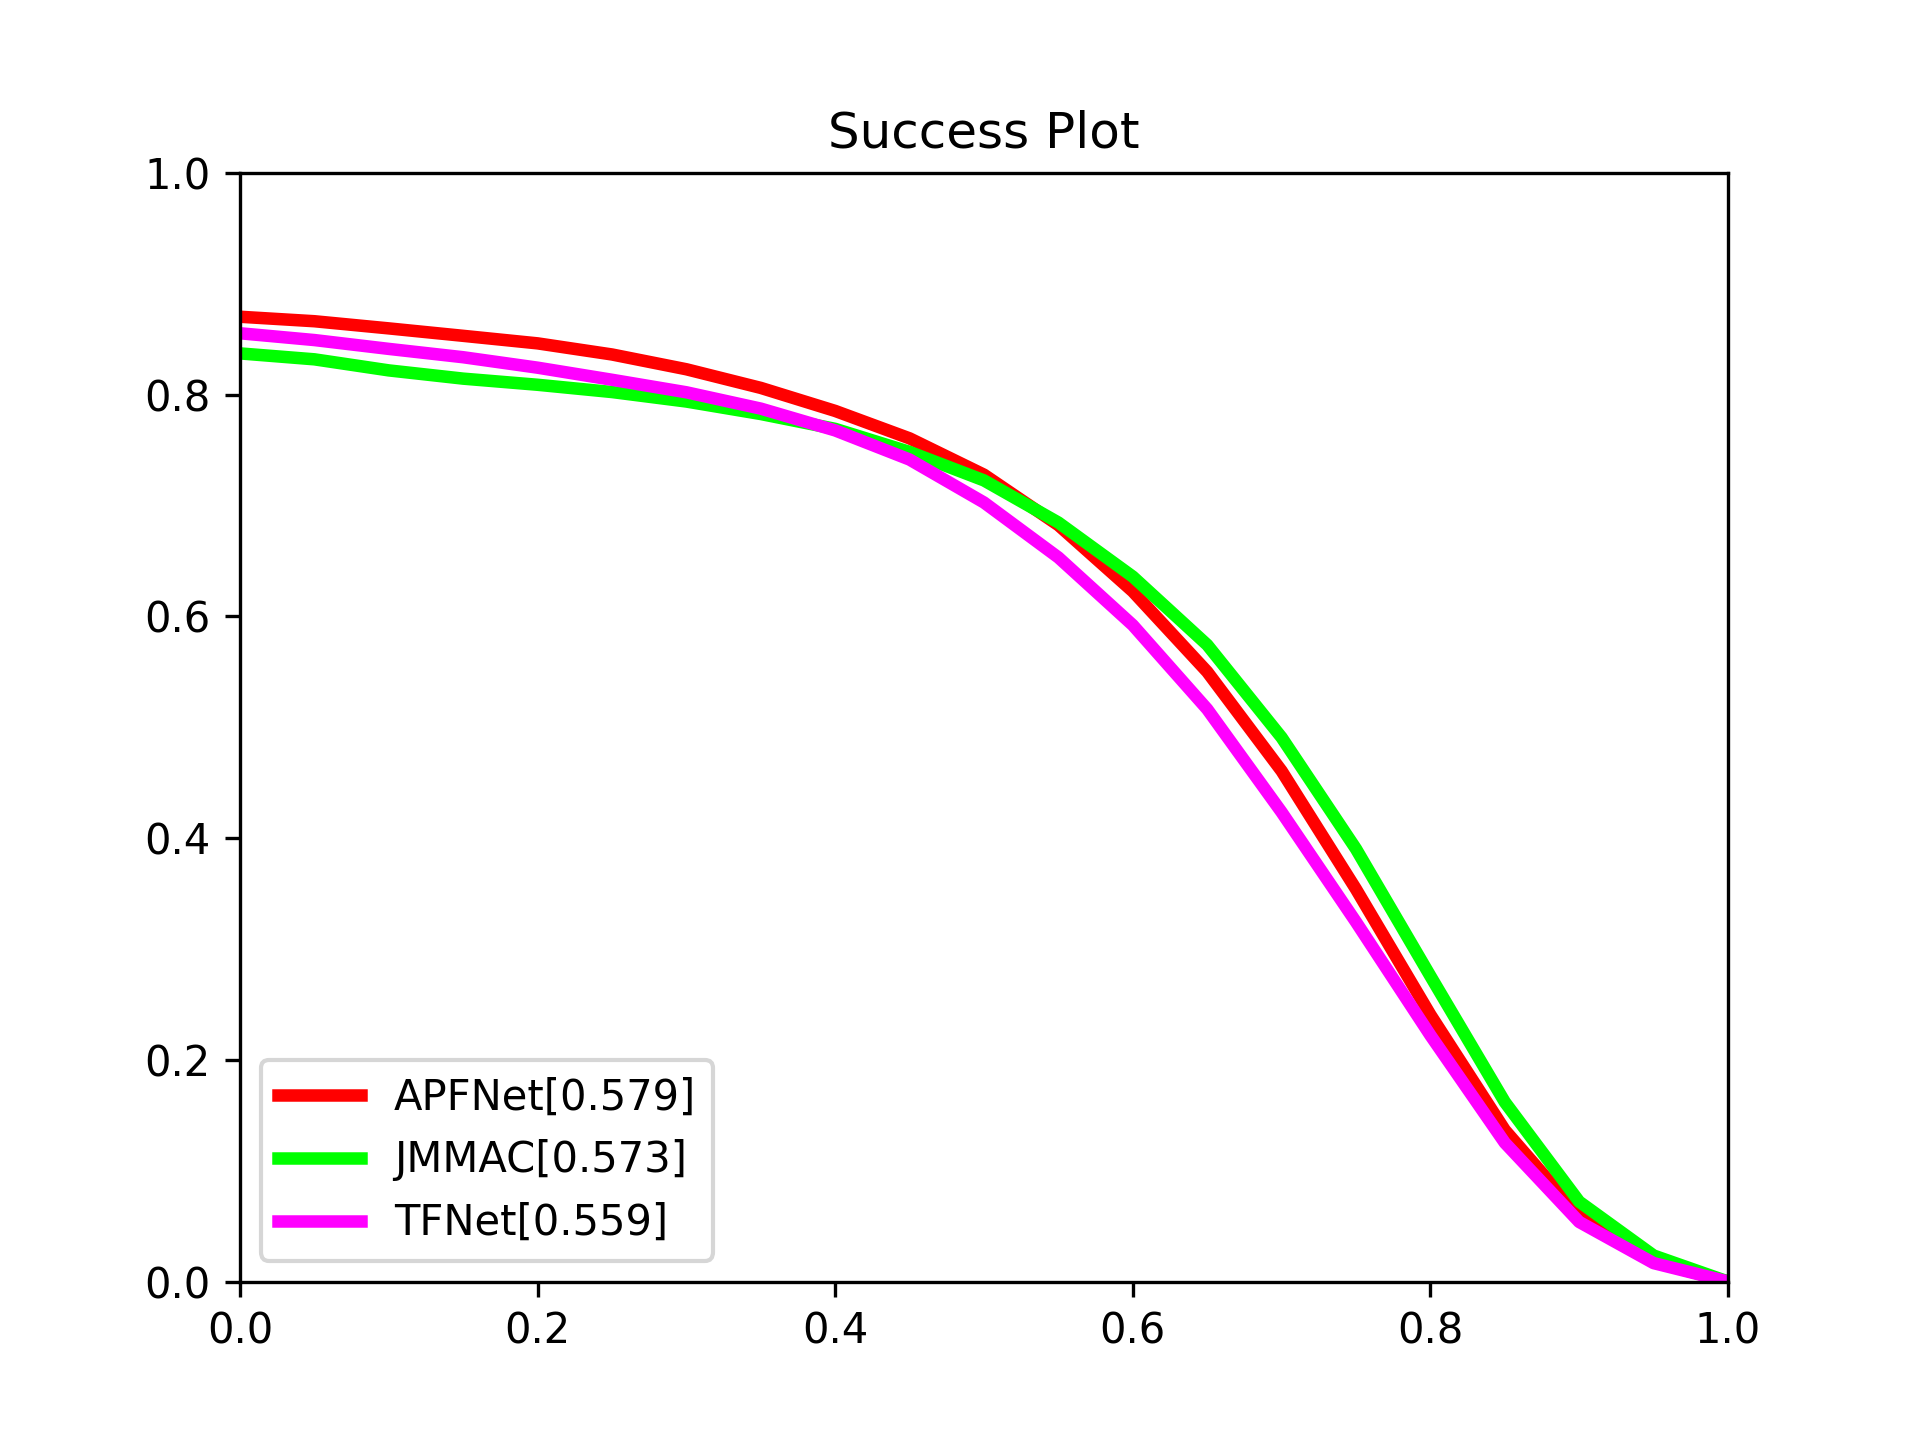
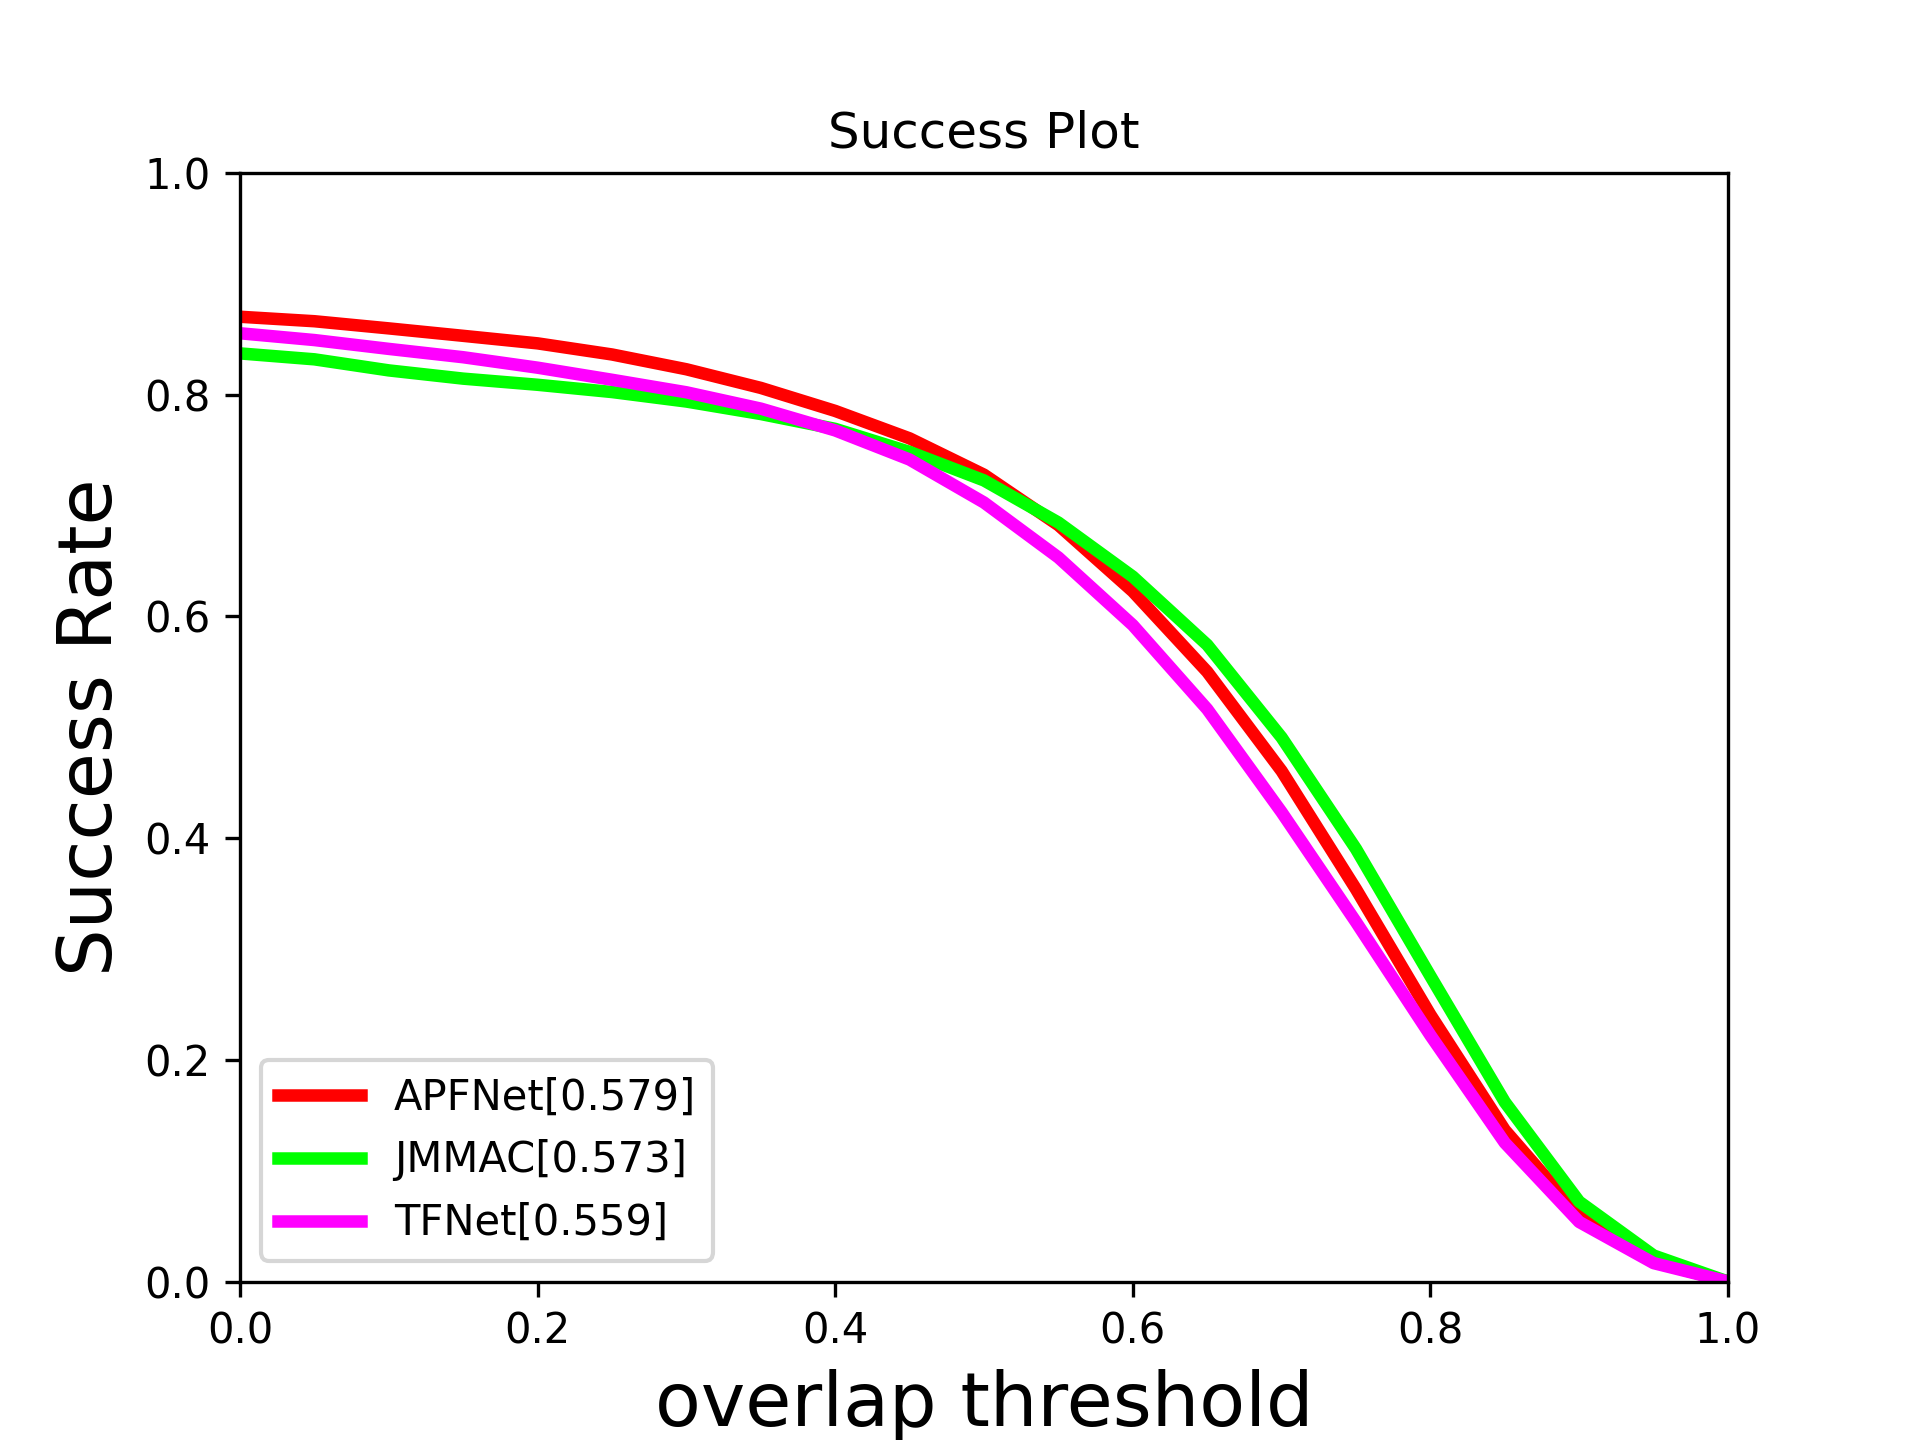
Updated drawing. 2023年6月10日

Changed region(s): [[0.3438, 0.9375, 0.6875, 1.0], [0.0312, 0.3438, 0.0625, 0.6875]]

diff --git a/dataset/rgbt210_dataset.py b/dataset/rgbt210_dataset.py
@@ -67,7 +67,7 @@ class RGBT210(BaseRGBTDataet):
         
         Returns
         -------
-        [out0] When evaluating a single tracker, return MPR and the precision Rate at different thresholds.
+        [out0] When evaluating a single tracker, return PR and the precision Rate at different thresholds.
         [out1] Other cases return a dictionary with all tracker results.
         """
         if seqs==None:
@@ -94,7 +94,8 @@ class RGBT210(BaseRGBTDataet):
         
         Returns
         -------
-        Same as PR.
+        [out0] When evaluating a single tracker, return SR and the Success Rate at different thresholds.
+        [out1] Other cases return a dictionary with all tracker results.
         """
         if seqs==None:
             seqs = self.seqs_name
@@ -127,10 +128,14 @@ class RGBT210(BaseRGBTDataet):
                 filename+="_PR"
                 axis = self.PR_fun.thr
                 loc = "lower right"
+                x_label = "Location error threshold"
+                y_label = "Precision"
             elif metric_fun==self.SR:
                 filename+="_SR"
                 axis = self.SR_fun.thr
                 loc = "lower left"
+                x_label = "overlap threshold"
+                y_label = "Success Rate"
             filename+="_plot.png"
 
         if title==None:
@@ -143,4 +148,5 @@ class RGBT210(BaseRGBTDataet):
                                  metric_fun=metric_fun, 
                                  filename=filename, 
                                  title=title, 
-                                 seqs=seqs, y_max=1.0, y_min=0.0, loc=loc)
+                                 seqs=seqs, y_max=1.0, y_min=0.0, loc=loc,
+                                 x_label=x_label, y_label=y_label)

diff --git a/dataset/lasher_dataset.py b/dataset/lasher_dataset.py
@@ -140,26 +140,33 @@ class LasHeR(BaseRGBTDataet):
                 filename+="_PR"
                 axis = self.PR_fun.thr
                 loc = "lower right"
+                x_label = "Location error threshold"
+                y_label = "Precision"
             elif metric_fun==self.NPR:
                 filename+="_NPR"
                 axis = self.NPR_fun.thr
                 loc = "lower right"
+                x_label = "Normalized Location error threshold"
+                y_label = "Normalized Precision"
             elif metric_fun==self.SR:
                 filename+="_SR"
                 axis = self.SR_fun.thr
                 loc = "lower left"
+                x_label = "Overlap threshold"
+                y_label = "Success Rate"
             filename+="_plot.png"
 
         if title==None:
             if metric_fun==self.PR:
-                title="Precision Plot"
+                title="Precision plots of OPE on LasHeR"
             elif metric_fun==self.NPR:
-                title="Normalized Precision Plot"
+                title="Normalized Precision plots of OPE on LasHeR"
             elif metric_fun==self.SR:
-                title="Success Plot"
+                title="Success plots of OPE on LasHeR"
 
         return super().draw_plot(axis=axis, 
                                  metric_fun=metric_fun, 
                                  filename=filename, 
                                  title=title, 
-                                 seqs=seqs, y_max=1.0, y_min=0.0, loc=loc)
+                                 seqs=seqs, y_max=1.0, y_min=0.0, loc=loc,
+                                 x_label=x_label, y_label=y_label)

diff --git a/dataset/gtot_dataset.py b/dataset/gtot_dataset.py
@@ -75,7 +75,8 @@ class GTOT(BaseRGBTDataet):
         
         Returns
         -------
-        Same as MPR.
+        [out0] When evaluating a single tracker, return MSR and the Success Rate at different thresholds.
+        [out1] Other cases return a dictionary with all tracker results.
         """
         if seqs==None:
             seqs = self.seqs_name
@@ -88,6 +89,7 @@ class GTOT(BaseRGBTDataet):
                 res[k] = self.MSR_fun(self, v, seqs)
             return res
 
+
     def draw_plot(self, metric_fun, filename=None, title=None, seqs=None):
         assert metric_fun==self.MSR or metric_fun==self.MPR
         if filename==None:
@@ -96,10 +98,14 @@ class GTOT(BaseRGBTDataet):
                 filename+="_MPR"
                 axis = self.MPR_fun.thr
                 loc = "lower right"
+                x_label = "Location error threshold"
+                y_label = "Precision"
             elif metric_fun==self.MSR:
                 filename+="_MSR"
                 axis = self.MSR_fun.thr
                 loc = "lower left"
+                x_label = "overlap threshold"
+                y_label = "Success Rate"
             filename+="_plot.png"
 
         if title==None:
@@ -112,4 +118,5 @@ class GTOT(BaseRGBTDataet):
                                  metric_fun=metric_fun, 
                                  filename=filename, 
                                  title=title, 
-                                 seqs=seqs, y_max=1.0, y_min=0.0, loc=loc)
+                                 seqs=seqs, y_max=1.0, y_min=0.0, loc=loc,
+                                 x_label=x_label, y_label=y_label)

diff --git a/dataset/rgbt234_dataset.py b/dataset/rgbt234_dataset.py
@@ -106,7 +106,8 @@ class RGBT234(BaseRGBTDataet):
         
         Returns
         -------
-        Same as MPR.
+        [out0] When evaluating a single tracker, return MSR and the Success Rate at different thresholds.
+        [out1] Other cases return a dictionary with all tracker results.
         """
         if seqs==None:
             seqs = self.seqs_name
@@ -138,10 +139,14 @@ class RGBT234(BaseRGBTDataet):
                 filename+="_MPR"
                 axis = self.MPR_fun.thr
                 loc = "lower right"
+                x_label = "Location error threshold"
+                y_label = "Precision"
             elif metric_fun==self.MSR:
                 filename+="_MSR"
                 axis = self.MSR_fun.thr
                 loc = "lower left"
+                x_label = "overlap threshold"
+                y_label = "Success Rate"
             filename+="_plot.png"
 
         if title==None:
@@ -154,4 +159,5 @@ class RGBT234(BaseRGBTDataet):
                                  metric_fun=metric_fun, 
                                  filename=filename, 
                                  title=title, 
-                                 seqs=seqs, y_max=1.0, y_min=0.0, loc=loc)
+                                 seqs=seqs, y_max=1.0, y_min=0.0, loc=loc,
+                                 x_label=x_label, y_label=y_label)

diff --git a/dataset/basedataset.py b/dataset/basedataset.py
@@ -61,7 +61,9 @@ class BaseRGBTDataet:
             choose 'ltrb' (top left corner and bottom left corner coordinates), 'xywh' (center 
             point coordinates with width and height). 
         [in] v_name - str
-
+            The ground truth file name of visible images.
+        [in] i_name - str
+            The ground truth file name of infrared images.
         """
         self.gt_path = gt_path
 
@@ -123,7 +125,7 @@ class BaseRGBTDataet:
 
 
     def draw_plot(self, axis, metric_fun, filename, y_max:float, y_min:float, title=None, 
-                  seqs=None, loc="best", rank="descend"):
+                  seqs=None, loc="best", rank="descend", **argdict):
         if seqs==None:
             seqs = self.ALL
         
@@ -140,4 +142,4 @@ class BaseRGBTDataet:
             idx = sorted(range(len(vals)), key=lambda x:vals[x], reverse=False)
         result = [result[i] for i in idx]
         
-        draw_plot(axis=axis, result=result, fn=filename, title=title, y_max=y_max, y_min=y_min, loc=loc)
+        draw_plot(axis=axis, result=result, fn=filename, title=title, y_max=y_max, y_min=y_min, loc=loc, **argdict)

diff --git a/vis/plot.py b/vis/plot.py
@@ -3,7 +3,8 @@ import numpy as np
 
 from vis.draw_utils import COLOR, LINE_STYLE
 
-def draw_plot(axis:np.ndarray, result:list, fn:str, title:str, y_max:float, y_min:float, loc:str):
+def draw_plot(axis:np.ndarray, result:list, fn:str, title:str, y_max:float, y_min:float, loc:str, 
+              x_label='', y_label=''):
     """
     Parameter
     ---
@@ -16,9 +17,11 @@ def draw_plot(axis:np.ndarray, result:list, fn:str, title:str, y_max:float, y_mi
     ax = fig.add_subplot(111)
     for i,(name,val) in enumerate(result):
         j = i//len(COLOR)
-        ax.plot(axis, val.squeeze(), color=COLOR[i], linestyle=LINE_STYLE[j], linewidth=2, label=name)
+        ax.plot(axis, val.squeeze(), color=COLOR[i], linestyle=LINE_STYLE[j], linewidth=3, label=name)
     ax.set_xlim(xmax=max(axis), xmin=min(axis))
     ax.set_ylim(ymin=y_min, ymax=y_max)
+    ax.set_xlabel(x_label, fontsize=18)
+    ax.set_ylabel(y_label, fontsize=18)
     ax.set_title(title)
     ax.legend(loc=loc)
-    fig.savefig(fn)
+    fig.savefig(fn, dpi=300)

diff --git a/vis/radar.py b/vis/radar.py
@@ -7,7 +7,7 @@ from vis.draw_utils import COLOR, MARKER_STYLE
 rc('font',**{'family':'sans-serif','sans-serif':['Helvetica']})
 rc('text', usetex=False)
 
-def draw_radar(result:list, attrs:list, fn:str):
+def draw_radar(result:list, attrs:list, fn:str, title=''):
     """
     Parameter
     ---
@@ -40,8 +40,9 @@ def draw_radar(result:list, attrs:list, fn:str):
     ax.grid(b=True, c='gray', linestyle='--')
     # ax.set_ylim(np.min(min_value)-0.05, np.max(max_value)+0.05)
     ax.set_rlim(np.min(min_value)-0.04, np.max(max_value)+0.02)
+    ax.set_title(title)
     # ax.set_yticks([])
     ax.tick_params('y', labelleft=False)
     # plt.show()
-    plt.savefig(fn)
+    plt.savefig(fn, dpi=300)
 

diff --git a/metrics/metrics.py b/metrics/metrics.py
@@ -119,7 +119,7 @@ class MPR_GTOT(Metric):
 
         pr = np.array(pr)
         pr_val = pr[:, 10].sum()/all_frame_num
-        return pr_val, pr
+        return pr_val, pr/all_frame_num*pr.shape[0]
 
 
 
@@ -157,11 +157,11 @@ class MSR_GTOT(Metric):
 
         sr = np.array(sr)
         sr_val = 0
-        a = (sr[:, 1:]*self.thr[1]).sum()
+        a = (sr[:, 1:]*self.thr[1]).sum()   # calc auc
         b = (sr[:, :-1]*self.thr[1]).sum()
         sr_val += (a+b)/2.
         sr_val = sr_val/all_frame_num
-        return sr_val, sr
+        return sr_val, sr/all_frame_num*sr.shape[0]
 
 
 
